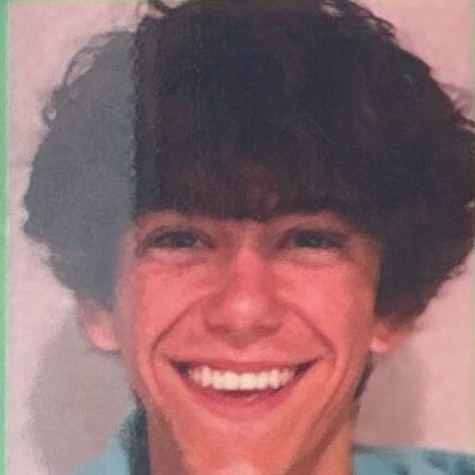
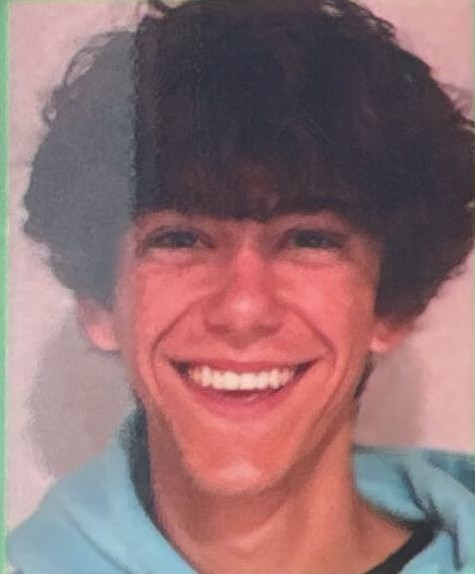
Center faces in Tanner, Nate, and Jamie headshots.

diff --git a/team.html b/team.html
@@ -67,7 +67,7 @@
 
                 <div class="profile">
                     <div class="profile-image">
-                        <img src="/media/images/tannerpfp.jpg" alt="Tanner Sendejas" loading="lazy" style="width: 240px; object-fit: cover;">
+                        <img src="/media/images/tannerpfp.jpg" alt="Tanner Sendejas" loading="lazy" style="width: 240px; height: 240px; object-fit: cover; object-position: center 45%;">
                     </div>
                     <h2 class="name">Tanner Sendejas</h2>
                     <h3 class="role">Vice President</h3>
@@ -90,7 +90,7 @@
 
                 <div class="profile">
                     <div class="profile-image">
-                        <img src="/media/images/natepfp.png" alt="Nate Balmain" loading="lazy" style="width: 240px; object-fit: cover;">
+                        <img src="/media/images/natepfp.jpg" alt="Nate Balmain" loading="lazy" style="width: 240px; height: 240px; object-fit: cover; object-position: center 45%;">
                     </div>
                     <h2 class="name">Nate Balmain</h2>
                     <h3 class="role">CTF Mentor</h3>
@@ -101,7 +101,7 @@
 
                 <div class="profile">
                     <div class="profile-image">
-                        <img src="/media/images/jamiepfp.jpg" alt="Jamie (John) Harlock" loading="lazy" style="width: 240px; object-fit: cover;">
+                        <img src="/media/images/jamiepfp.jpg" alt="Jamie (John) Harlock" loading="lazy" style="width: 240px; height: 240px; object-fit: cover;">
                     </div>
                     <h2 class="name">Jamie (John) Harlock</h2>
                     <h3 class="role">CTF Meeting Lead</h3>
